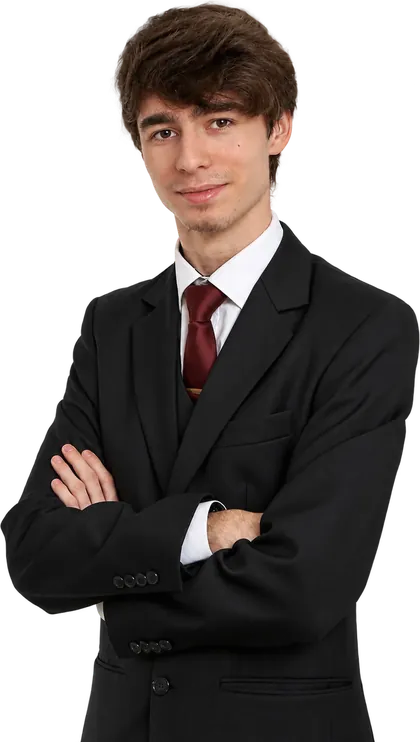
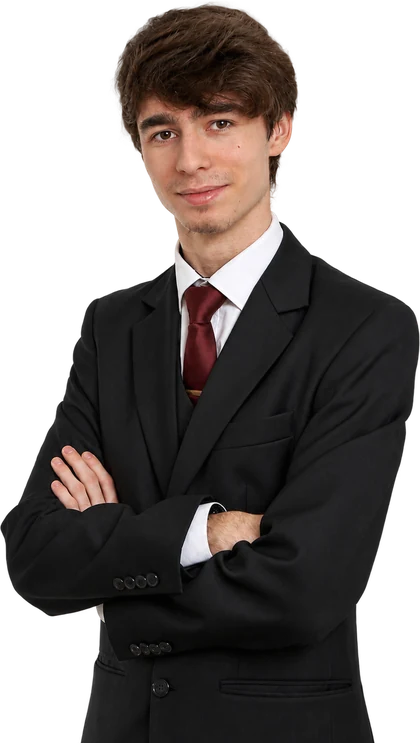
Ostrzejszy portret w hero: upscaling 2x i wersje dla ekranow retina
Claude-Session: https://claude.ai/code/session_01RBvFJjjmN8xSCv6MX7GNtd

diff --git a/src/sections/en.html b/src/sections/en.html
@@ -25,7 +25,7 @@
     </div>
     <div style="flex: 0 1 480px; position: relative; height: 720px; display: flex; align-items: flex-end; justify-content: center">
       <div class="gl" style="position: absolute; width: 520px; height: 520px; border-radius: 50%; bottom: 120px;"><span class="gl-b gl-b1"></span><span class="gl-b gl-b2"></span><span class="gl-b gl-b3"></span><span class="gl-b gl-b4"></span></div>
-      <img src="/img/portret.webp" srcset="/img/portret-420.webp 420w, /img/portret.webp 787w" sizes="(max-width: 900px) 90vw, 420px" width="787" height="1392" fetchpriority="high" decoding="async" alt="Mikołaj Borawski" style="position: relative; height: 680px; width: auto; -webkit-mask-image: linear-gradient(to bottom, #000 80%, transparent 100%); mask-image: linear-gradient(to bottom, #000 80%, transparent 100%)">
+      <img src="/img/portret.webp" srcset="/img/portret-420.webp 420w, /img/portret.webp 787w, /img/portret-1180.webp 1180w, /img/portret-1574.webp 1574w" sizes="(max-width: 900px) 90vw, 420px" width="787" height="1392" fetchpriority="high" decoding="async" alt="Mikołaj Borawski" style="position: relative; height: 680px; width: auto; -webkit-mask-image: linear-gradient(to bottom, #000 80%, transparent 100%); mask-image: linear-gradient(to bottom, #000 80%, transparent 100%)">
     </div>
   </section>
 

diff --git a/src/sections/home.html b/src/sections/home.html
@@ -55,7 +55,7 @@
     </div>
     <div style="flex: 0 1 520px; position: relative; height: 780px; display: flex; align-items: flex-end; justify-content: center">
       <div class="gl" style="position: absolute; width: 560px; height: 560px; border-radius: 50%; bottom: 120px;"><span class="gl-b gl-b1"></span><span class="gl-b gl-b2"></span><span class="gl-b gl-b3"></span><span class="gl-b gl-b4"></span></div>
-      <img src="/img/portret.webp" srcset="/img/portret-420.webp 420w, /img/portret.webp 787w" sizes="(max-width: 900px) 90vw, 420px" width="787" height="1392" fetchpriority="high" decoding="async" alt="Mikołaj Borawski" style="position: relative; height: 740px; width: auto; -webkit-mask-image: linear-gradient(to bottom, #000 80%, transparent 100%); mask-image: linear-gradient(to bottom, #000 80%, transparent 100%)">
+      <img src="/img/portret.webp" srcset="/img/portret-420.webp 420w, /img/portret.webp 787w, /img/portret-1180.webp 1180w, /img/portret-1574.webp 1574w" sizes="(max-width: 900px) 90vw, 420px" width="787" height="1392" fetchpriority="high" decoding="async" alt="Mikołaj Borawski" style="position: relative; height: 740px; width: auto; -webkit-mask-image: linear-gradient(to bottom, #000 80%, transparent 100%); mask-image: linear-gradient(to bottom, #000 80%, transparent 100%)">
     </div>
   </section>
 
